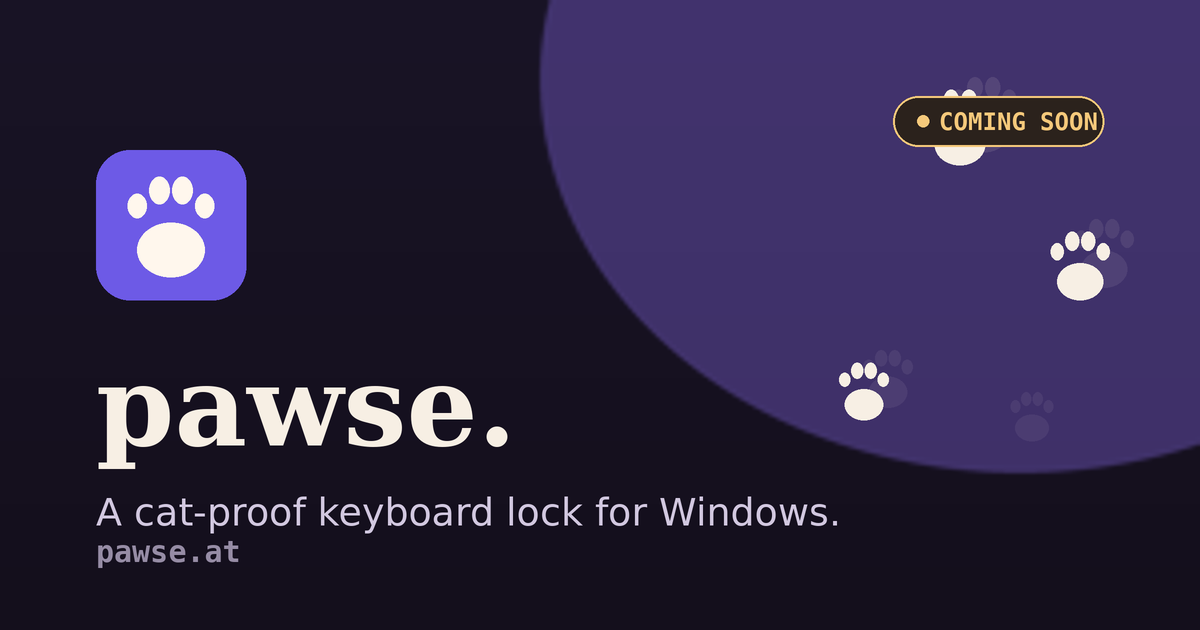
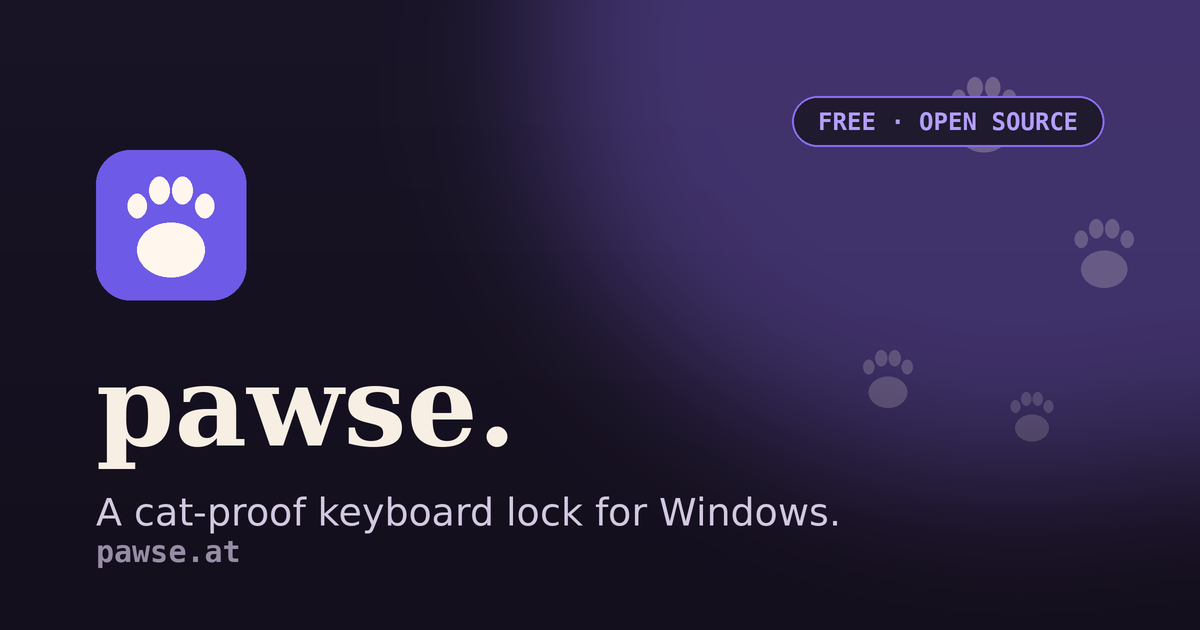
web: go live - real download links and a card that doesn't say coming soon
The repo is public, so the page no longer has to pretend it isn't shipping.

- Header: the pulsing "coming soon" pill becomes a quiet Source-on-GitHub link.
- Hero: both buttons are real links now - Download -> releases/latest, ghost ->
  the repo - and the disabled styling and "· soon" chips are gone.
- Download section: all five rows are clickable. They point at releases/latest
  rather than a versioned asset, so release day never rots the page; the x.y.z
  filenames stay placeholders for the same reason.
- Meta and og:description drop "Coming soon" for what's actually true: free,
  open source, and local unless you ask it to check for updates.
- og.png: regenerated with a FREE · OPEN SOURCE pill. Two fixes came with it -
  the committed card predated the script's alpha-overlay fix (its decorative paws
  were opaque), and the glow's resize-down-up blur left a hard-edged disc, now a
  real Gaussian blur.

Changed region(s): [[0.4008, 0.0, 1.0, 0.8143], [0.6475, 0.1206, 0.925, 0.2714], [0.8633, 0.3317, 0.9558, 0.4825]]

diff --git a/web/site/index.html b/web/site/index.html
@@ -4,13 +4,13 @@
 <meta charset="utf-8">
 <meta name="viewport" content="width=device-width, initial-scale=1">
 <title>Pawse - a cat-proof keyboard lock for Windows</title>
-<meta name="description" content="Pawse freezes your keyboard with one click so a cat walking across it can't wreck your work. Unlock deliberately - a chord, a passphrase, a hold, or a timer. Fully local, no telemetry. Coming soon.">
+<meta name="description" content="Pawse freezes your keyboard with one click so a cat walking across it can't wreck your work. Unlock deliberately - a chord, a passphrase, a hold, or a timer. Free, open source, and local unless you ask it to check for updates.">
 <meta name="color-scheme" content="dark">
 <meta name="theme-color" content="#17131f">
 <meta property="og:type" content="website">
 <meta property="og:url" content="https://pawse.at">
 <meta property="og:title" content="Pawse - a cat-proof keyboard lock for Windows">
-<meta property="og:description" content="One click freezes the keyboard so a cat can't wreck your work. Unlock your way. Fully local. Coming soon.">
+<meta property="og:description" content="One click freezes the keyboard so a cat can't wreck your work. Unlock your way. Free, open source, and local by default.">
 <meta property="og:image" content="https://pawse.at/og.png">
 <meta name="twitter:card" content="summary_large_image">
 <link rel="icon" href="/favicon.svg">
@@ -52,10 +52,9 @@
   .bar{display:flex; align-items:center; justify-content:space-between; padding:26px 0 8px; gap:16px}
   .brand{display:flex; align-items:center; gap:11px; font-family:var(--mono); font-size:13px; letter-spacing:.18em; text-transform:uppercase; color:var(--soft)}
   .brand svg{width:26px; height:26px; display:block}
-  .status{display:inline-flex; align-items:center; gap:8px; font-family:var(--mono); font-size:11.5px; letter-spacing:.2em; text-transform:uppercase; color:var(--amber);
-    border:1px solid rgba(245,201,123,.35); border-radius:100px; padding:7px 14px; background:rgba(245,201,123,.06)}
-  .dot{width:7px; height:7px; border-radius:50%; background:var(--amber); box-shadow:0 0 0 0 rgba(245,201,123,.6); animation:pulse 2.4s ease-out infinite}
-  @keyframes pulse{0%{box-shadow:0 0 0 0 rgba(245,201,123,.55)}70%{box-shadow:0 0 0 9px rgba(245,201,123,0)}100%{box-shadow:0 0 0 0 rgba(245,201,123,0)}}
+  .top{font-family:var(--mono); font-size:11.5px; letter-spacing:.16em; text-transform:uppercase; color:var(--faint);
+    text-decoration:none; border:1px solid var(--line); border-radius:100px; padding:7px 14px; transition:color .2s ease, border-color .2s ease}
+  .top:hover{color:var(--ink); border-color:rgba(139,108,240,.5)}
 
   /* hero */
   .hero{position:relative; padding:clamp(48px,11vh,120px) 0 40px; z-index:2}
@@ -69,10 +68,8 @@
   .cta{display:flex; flex-wrap:wrap; gap:14px 22px; align-items:center}
   .btn{display:inline-flex; align-items:center; gap:9px; font-family:var(--mono); font-size:13px; letter-spacing:.06em; text-decoration:none;
     color:#1a1327; background:linear-gradient(180deg,#f7efe4,#e9dcc8); padding:13px 20px; border-radius:12px; font-weight:600;
-    border:1px solid rgba(255,255,255,.4); box-shadow:0 10px 26px rgba(0,0,0,.35); transition:transform .18s ease, box-shadow .18s ease; cursor:default}
+    border:1px solid rgba(255,255,255,.4); box-shadow:0 10px 26px rgba(0,0,0,.35); transition:transform .18s ease, box-shadow .18s ease}
   .btn:hover{transform:translateY(-2px); box-shadow:0 16px 34px rgba(0,0,0,.42)}
-  .btn[aria-disabled="true"]:hover{transform:none}
-  .btn .k{opacity:.55}
   .btn .di{width:15px; height:15px; display:block}
   .btn .di svg{width:100%; height:100%; fill:none; stroke:currentColor; stroke-width:2; stroke-linecap:round; stroke-linejoin:round}
   .btn.ghost{background:none; color:var(--soft); border:1px solid var(--line); box-shadow:none}
@@ -122,6 +119,10 @@
   .row .name{font-family:var(--mono); font-size:13px; color:var(--cream); letter-spacing:.01em; word-break:break-word}
   .row .what{color:var(--soft); font-size:14px; line-height:1.5}
   .row.pick{border-color:rgba(139,108,240,.45); background:rgba(139,108,240,.07)}
+  /* Download rows are links; the unlock-method rows are not, so only style the anchors. */
+  a.row{text-decoration:none; transition:border-color .2s ease, background .2s ease}
+  a.row:hover{border-color:rgba(139,108,240,.5); background:rgba(139,108,240,.09)}
+  a.row:hover .name{color:#fff}
   .chip{justify-self:start; font-family:var(--mono); font-size:10.5px; letter-spacing:.12em; text-transform:uppercase; white-space:nowrap;
     border:1px solid var(--line); border-radius:100px; padding:4px 10px; color:var(--faint)}
   .chip.on{color:var(--amber); border-color:rgba(245,201,123,.35); background:rgba(245,201,123,.06)}
@@ -168,7 +169,7 @@
       <svg viewBox="0 0 256 256" aria-hidden="true"><rect width="256" height="256" rx="56" fill="#6D5AE6"/><use href="#paw" fill="#FFF7ED"/></svg>
       pawse.at
     </span>
-    <span class="status"><span class="dot"></span>Coming soon</span>
+    <a class="top" href="https://github.com/phoen-ix/pawse">Source on GitHub</a>
   </div>
 </header>
 
@@ -192,22 +193,16 @@
     <p class="tag reveal" style="animation-delay:.2s">A cat-proof keyboard lock for Windows.</p>
     <p class="lede reveal" style="animation-delay:.28s">One click - or a hotkey - freezes the keyboard so a cat walking across it can't close your work, fire off shortcuts, or leave a modifier <b>stuck</b>. The days of your cat <b>force-pushing to main</b> are over. Unlock it deliberately: a chord, a passphrase, a hold-to-unlock button, or an auto-timer.</p>
     <div class="cta reveal" style="animation-delay:.36s">
-      <!-- Pre-launch switch (the repo is private, so release links would 404). To go live:
-           1. make the repo public
-           2. drop the .status pill in the header
-           3. turn these two spans into <a href> - Download -> releases/latest, ghost -> the
-              repo - and delete the "· soon" chips
-           4. turn each <div class="row"> in the Download section into <a class="row">
-           5. remove "Coming soon" from <meta name=description> and og:description
-           6. regenerate og.png (web/og.png.py draws its own coming-soon pill; needs Pillow) -->
-      <span class="btn" aria-disabled="true">
+      <!-- Both point at the repo rather than a versioned file: GitHub's releases/latest
+           always resolves to the newest one, so nothing here goes stale on release day. -->
+      <a class="btn" href="https://github.com/phoen-ix/pawse/releases/latest">
         <span class="di" aria-hidden="true"><svg viewBox="0 0 24 24"><path d="M12 3v11"/><path d="M7 10l5 5 5-5"/><path d="M5 20h14"/></svg></span>
-        Download <span class="k">·&nbsp;soon</span>
-      </span>
-      <span class="btn ghost" aria-disabled="true">
+        Download for Windows
+      </a>
+      <a class="btn ghost" href="https://github.com/phoen-ix/pawse">
         <svg class="gh" viewBox="0 0 16 16" aria-hidden="true" fill="currentColor"><path d="M8 0C3.58 0 0 3.58 0 8c0 3.54 2.29 6.53 5.47 7.59.4.07.55-.17.55-.38 0-.19-.01-.82-.01-1.49-2.01.37-2.53-.49-2.69-.94-.09-.23-.48-.94-.82-1.13-.28-.15-.68-.52-.01-.53.63-.01 1.08.58 1.23.82.72 1.21 1.87.87 2.33.66.07-.52.28-.87.51-1.07-1.78-.2-3.64-.89-3.64-3.95 0-.87.31-1.59.82-2.15-.08-.2-.36-1.02.08-2.12 0 0 .67-.21 2.2.82.64-.18 1.32-.27 2-.27.68 0 1.36.09 2 .27 1.53-1.04 2.2-.82 2.2-.82.44 1.1.16 1.92.08 2.12.51.56.82 1.27.82 2.15 0 3.07-1.87 3.75-3.65 3.95.29.25.54.73.54 1.48 0 1.07-.01 1.93-.01 2.2 0 .21.15.46.55.38A8.01 8.01 0 0 0 16 8c0-4.42-3.58-8-8-8z"/></svg>
-        GitHub <span class="k">·&nbsp;soon</span>
-      </span>
+        Source on GitHub
+      </a>
     </div>
   </section>
 
@@ -267,32 +262,33 @@
   <section class="sec">
     <p class="rule">Download</p>
     <p class="intro">Windows 10 or 11, 64-bit. <b>Not sure which? Take the all-in-one installer</b> - it carries everything and asks you nothing. Nothing here needs administrator rights unless you choose to install for every account on the PC.</p>
-    <!-- Rows are inert until launch - see the hero comment. Sizes track v0.5.0; the
-         version is deliberately x.y.z so the page doesn't go stale on every release. -->
+    <!-- Every row links to releases/latest rather than a versioned asset: GitHub resolves
+         that to the newest release, so nothing here needs touching on release day. The
+         filenames keep the x.y.z placeholder for the same reason; sizes track v0.6.0. -->
     <div class="rows">
-      <div class="row pick">
+      <a class="row pick" href="https://github.com/phoen-ix/pawse/releases/latest">
         <span class="name">Pawse-Setup-x.y.z-full.exe</span><span class="chip rec">Recommended · ~58 MB</span>
         <span class="what">All-in-one installer. The .NET runtime is inside; nothing else to install.</span>
-      </div>
-      <div class="row">
+      </a>
+      <a class="row" href="https://github.com/phoen-ix/pawse/releases/latest">
         <span class="name">Pawse-Setup-x.y.z-min.exe</span><span class="chip">~0.5 MB</span>
         <span class="what">Tiny installer. Needs the .NET 8 Desktop Runtime, which it fetches for you if it's missing.</span>
-      </div>
-      <div class="row">
+      </a>
+      <a class="row" href="https://github.com/phoen-ix/pawse/releases/latest">
         <span class="name">Pawse-Setup-x.y.z.exe</span><span class="chip">~58 MB</span>
         <span class="what">Carries both builds and asks which one to install.</span>
-      </div>
+      </a>
     </div>
     <p class="sub">Or stay portable</p>
     <div class="rows">
-      <div class="row">
+      <a class="row" href="https://github.com/phoen-ix/pawse/releases/latest">
         <span class="name">Pawse-x.y.z.zip</span><span class="chip">~58 MB</span>
         <span class="what">Unzip, run <code>Pawse.exe</code>. Self-contained; settings and log live in the same folder.</span>
-      </div>
-      <div class="row">
+      </a>
+      <a class="row" href="https://github.com/phoen-ix/pawse/releases/latest">
         <span class="name">Pawse-x.y.z-min.zip</span><span class="chip">~0.2 MB</span>
         <span class="what">The small launcher. Needs the .NET 8 Desktop Runtime installed once.</span>
-      </div>
+      </a>
     </div>
     <p class="note">Already have Pawse? <b>Check for updates…</b> in the tray menu offers the new version and installs it for you - it's the only time Pawse goes online, and only when you click it. Every release is built and published by CI, with a <code>SHA256SUMS.txt</code> covering all five downloads. Windows may mark a downloaded file as blocked - if an exe won't start, right-click it (or the zip) → <b>Properties → Unblock</b> first. Installing or uninstalling asks a running Pawse to quit properly, so anything it blocked is always put back.</p>
   </section>
